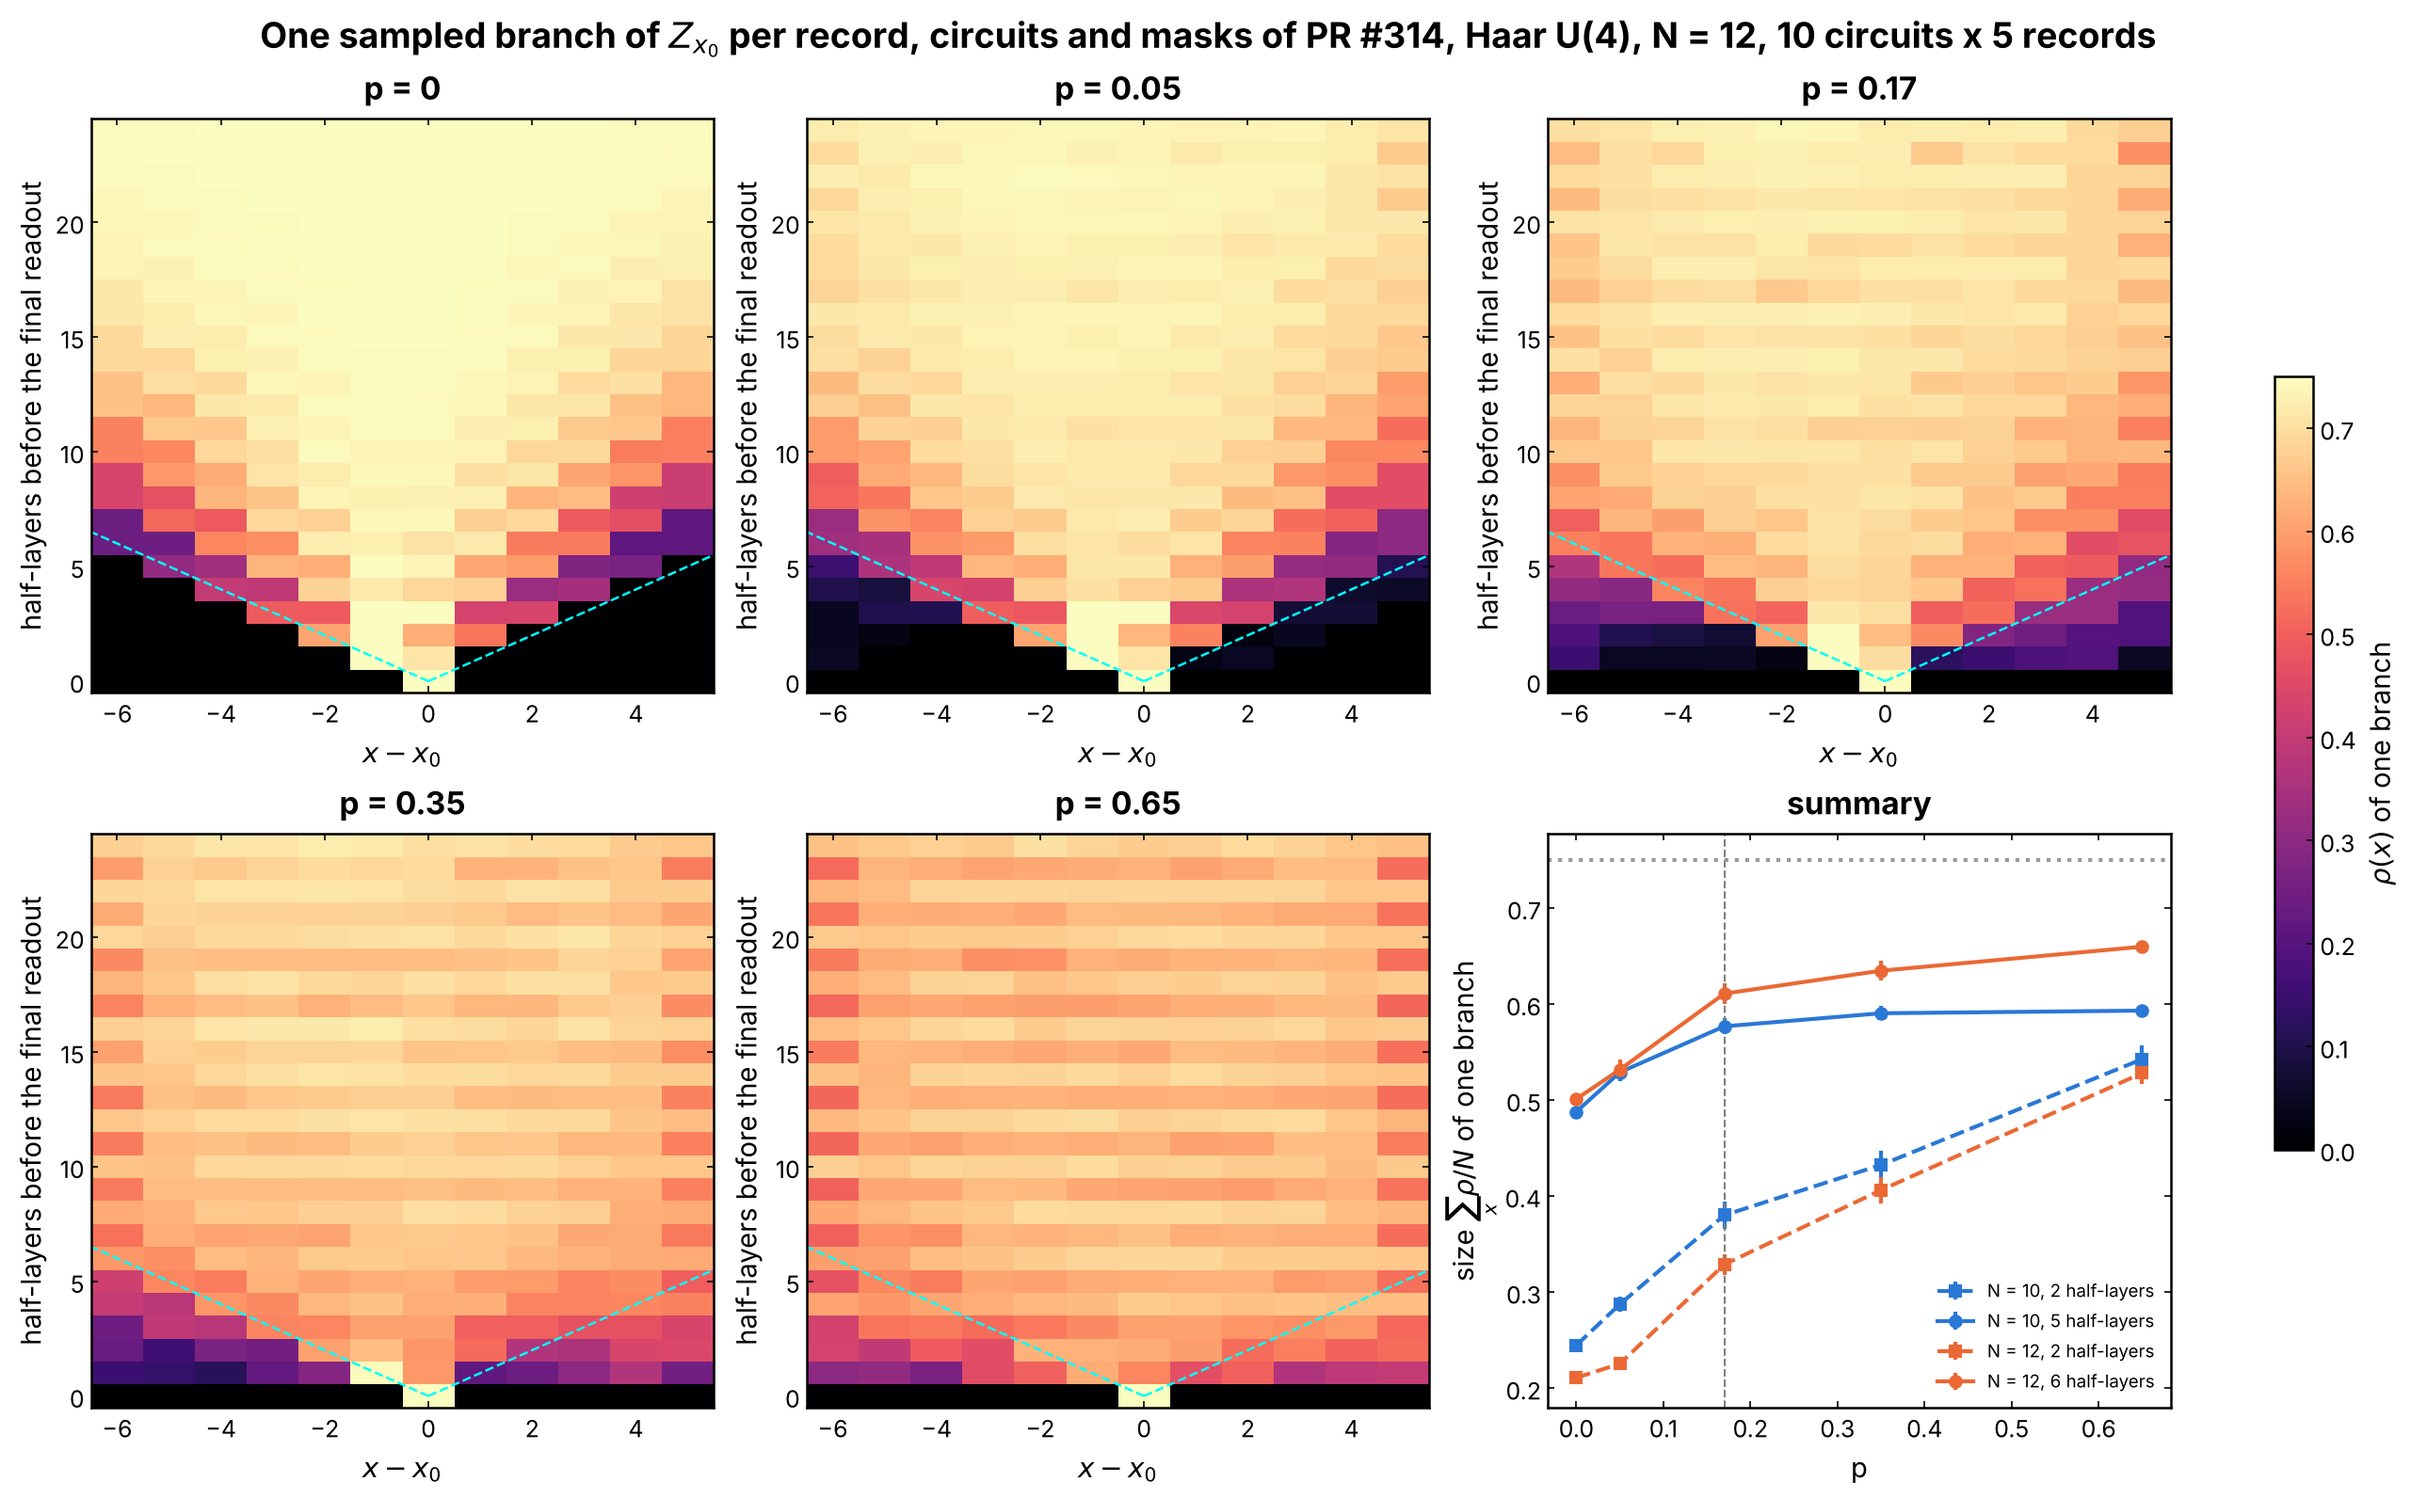
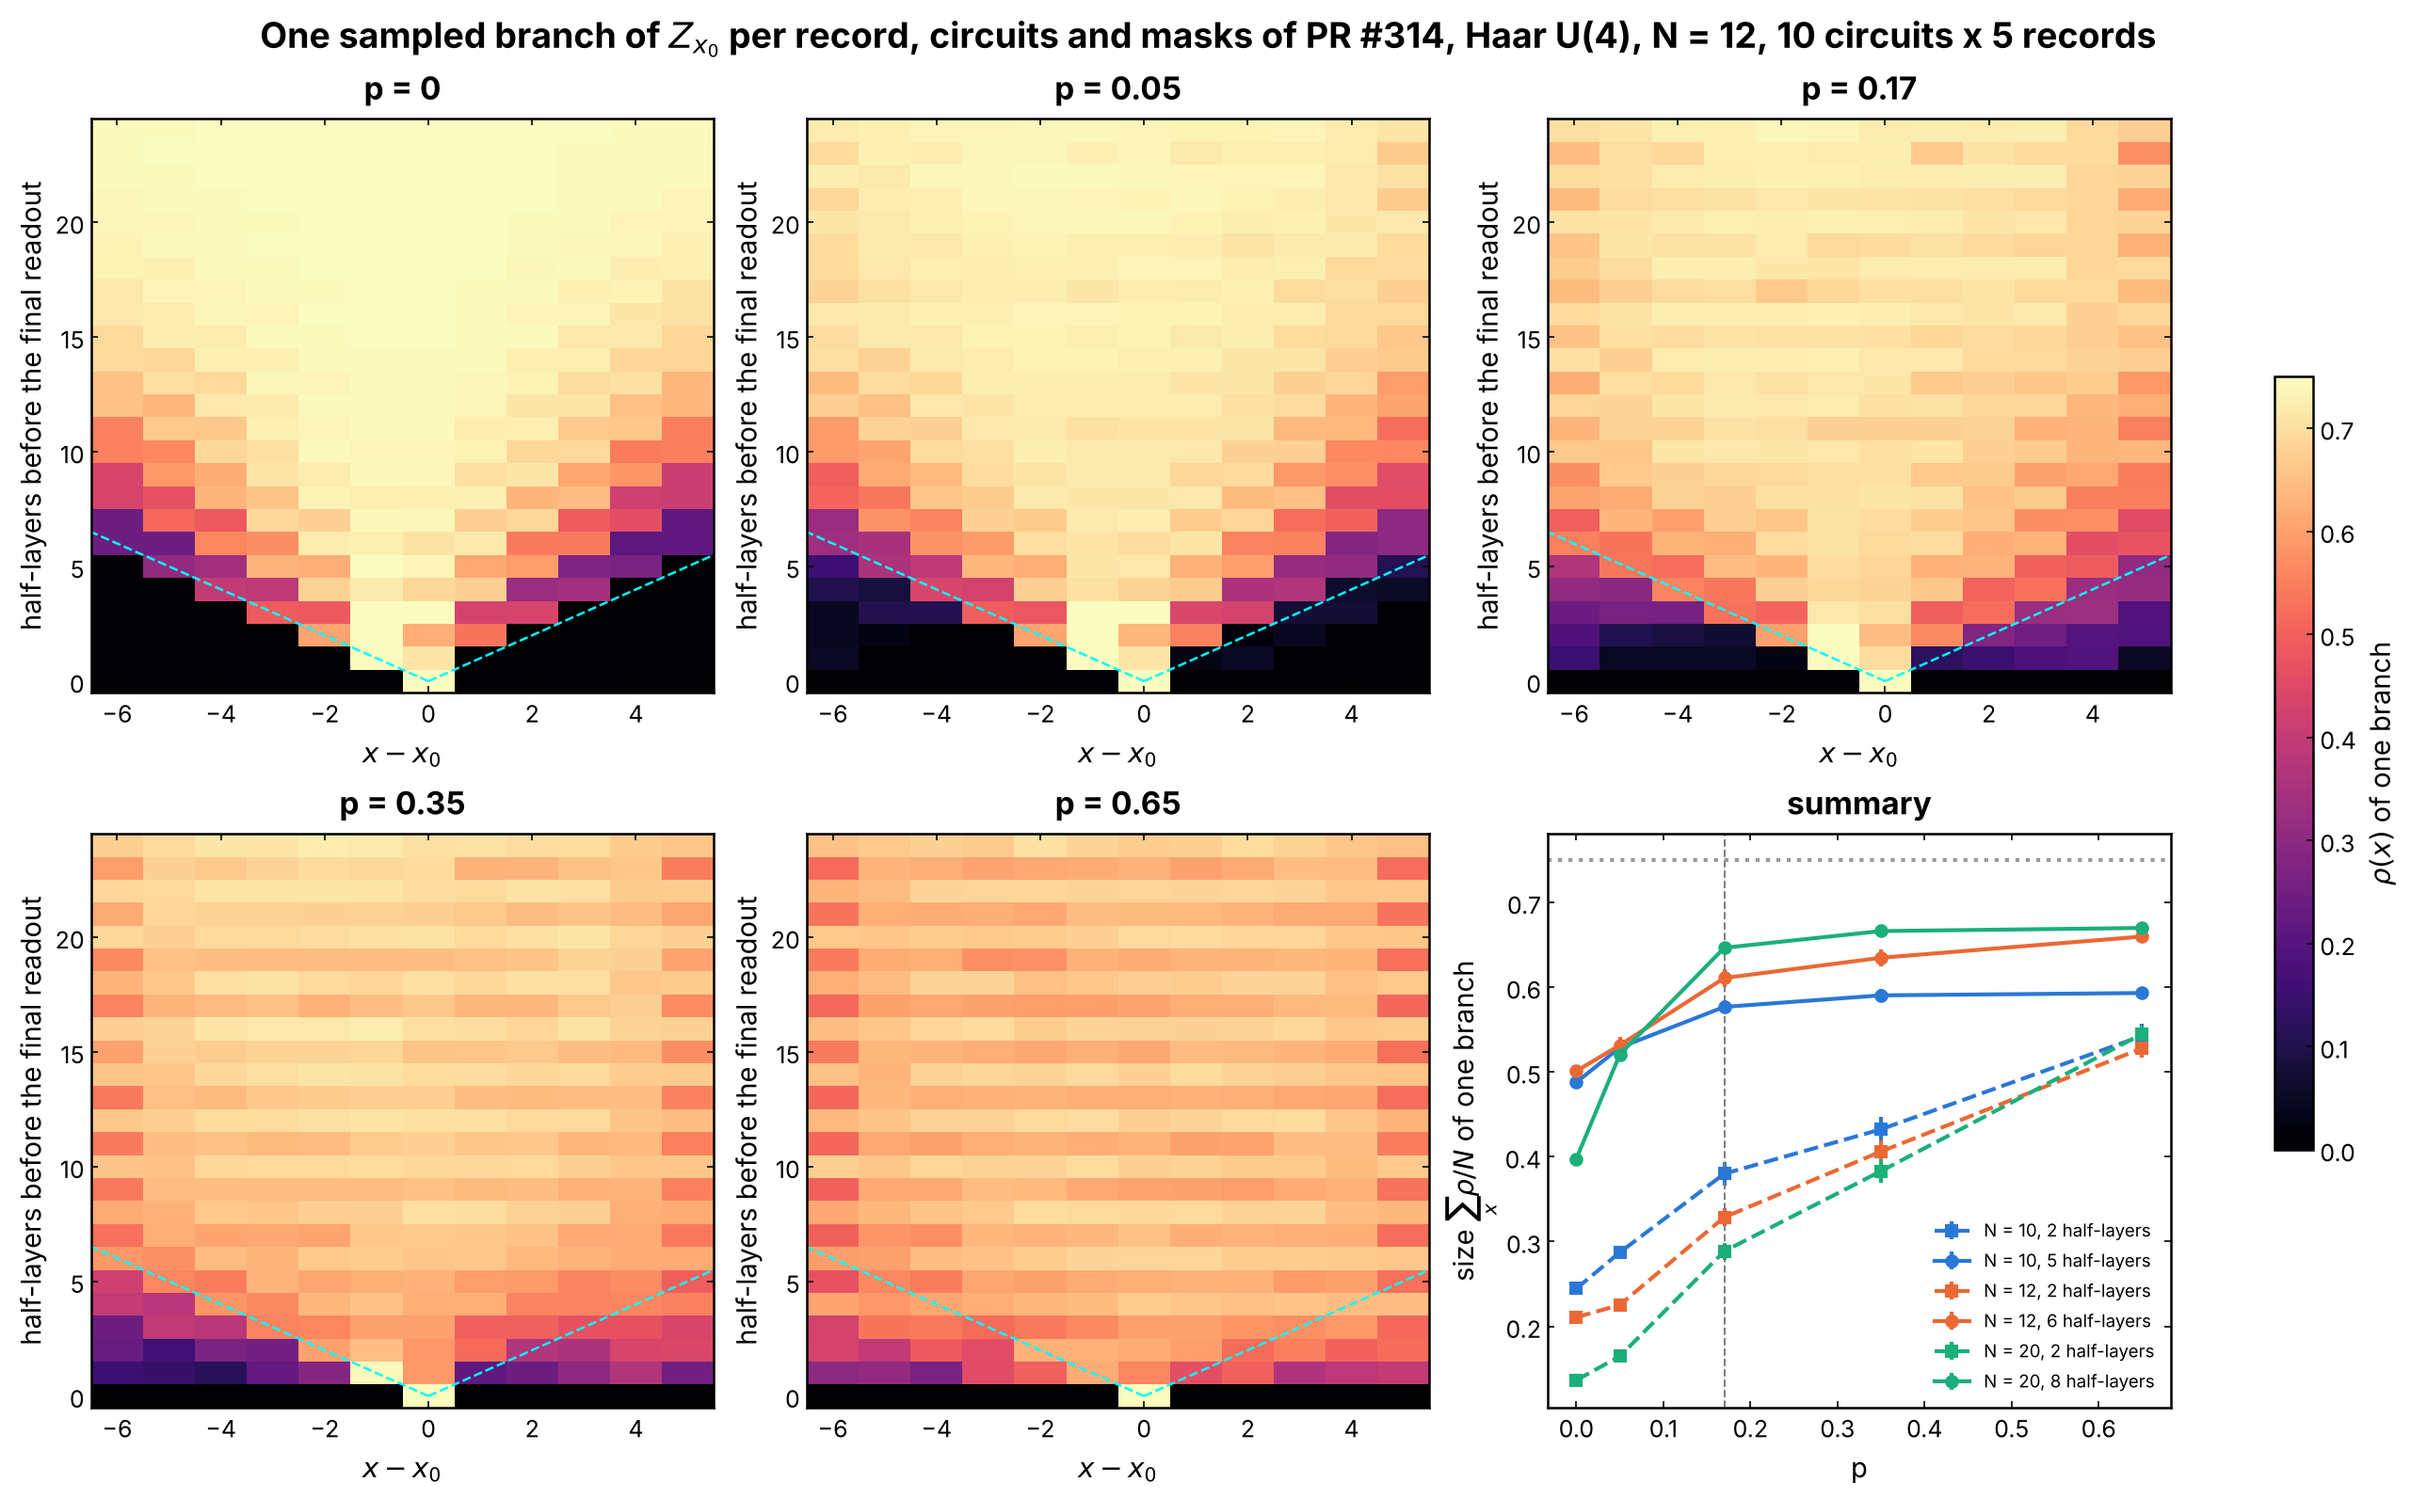
Operator cones: one branch at N = 20 as an MPS of bond 256 (#315)
The branch subcommand caches each finished circuit and takes --seed-from,
so the long MPS runs resume and split over (p, seed). Figure 10 shows the
N = 20 cone with the rows where the discarded weight exceeds 1 % hatched;
the summary panel stays inside the reliable rows.

Claude-Session: https://claude.ai/code/session_0185MugvBqh3aNVuZNob9j2W

diff --git a/experiments/operator_cones/operator_cones.py b/experiments/operator_cones/operator_cones.py
@@ -271,29 +271,46 @@ def run_branch(args: argparse.Namespace) -> None:
     records per circuit. Cheap at ``N = 10`` for every ``p``. With
     ``--chi`` the operator is a truncated MPS (:func:`single_branch_mps`),
     for ``N`` beyond the dense ``4**N`` vector; the mean discarded weight is
-    saved with the map.
+    saved with the map, and each finished circuit is cached so that a rerun
+    resumes.
     """
     from QELM.evaluation.effect_rank import draw_circuit
 
     N, T = args.N, args.N
     runs = {}
+    # MPS runs are long: each circuit is saved as it ends, and a rerun with
+    # the same arguments resumes from there (and merges runs split over p).
+    parts = Path(args.out) / f"branch_N{N}_chi{args.chi}_parts"
+    if args.chi:
+        parts.mkdir(parents=True, exist_ok=True)
     for p in sorted(set(args.p)):
         t0 = time.time()
         dens: list[np.ndarray] = []
         lost: list[np.ndarray] = []
         bonds: list[np.ndarray] = []
-        for seed in range(args.seeds):
+        for seed in range(args.seed_from, args.seeds):
+            part = parts / f"p{p:g}_seed{seed}_b{args.branches}.npz"
+            if part.exists():
+                with np.load(part) as z:
+                    dens += list(z["density"])
+                    lost += list(z["discarded"]) if args.chi else []
+                    bonds += list(z["max_bond"]) if args.chi else []
+                continue
             u = np.random.default_rng((seed, N, 1000)).random((T, N))
             circuit = draw_circuit("haar", N, T, np.random.default_rng((seed, N, 0)))
             rng = np.random.default_rng((seed, N, 2000))
+            d, lo, bo = [], [], []
             for _ in range(args.branches):
                 if args.chi:
                     r = single_branch_mps(circuit, u < p, N // 2, rng, args.chi)
-                    dens.append(r.density)
-                    lost.append(r.discarded)
-                    bonds.append(r.max_bond)
+                    d.append(r.density)
+                    lo.append(r.discarded)
+                    bo.append(r.max_bond)
                 else:
-                    dens.append(single_branch(circuit, u < p, N // 2, rng))
+                    d.append(single_branch(circuit, u < p, N // 2, rng))
+            if args.chi:
+                np.savez(part, density=d, discarded=lo, max_bond=bo)
+            dens, lost, bonds = dens + d, lost + lo, bonds + bo
         D = np.asarray(dens)
         runs[f"{p:g}"] = {
             "p": p,
@@ -382,6 +399,9 @@ def main() -> None:
     b.add_argument("--seeds", type=int, default=10)
     b.add_argument("--branches", type=int, default=5, help="records per circuit")
     b.add_argument("--chi", type=int, default=0, help="MPS bond (0: dense vector)")
+    b.add_argument(
+        "--seed-from", dest="seed_from", type=int, default=0, help="first seed"
+    )
     b.add_argument("--p", type=_floats, default=_floats(grid), help=p_help)
     b.set_defaults(func=run_branch)
 

diff --git a/experiments/operator_cones/plot_operator_cones.py b/experiments/operator_cones/plot_operator_cones.py
@@ -438,7 +438,8 @@ def plot_branch(main: dict, others: list[dict], out: Path) -> None:
     for k, data in enumerate(sorted([main] + others, key=lambda d: d["N"])):
         runs = [r for r in _runs(data) if any(np.isclose(r["p"], q) for q in P_MAIN)]
         p = [r["p"] for r in runs]
-        for s, ls, mk in ((2, "--", "s"), (data["N"] // 2, "-", "o")):
+        # Second time: N / 2 half-layers, at most 8 (MPS rows are exact up to 8).
+        for s, ls, mk in ((2, "--", "s"), (min(data["N"] // 2, 8), "-", "o")):
             ax.errorbar(
                 p,
                 [r["size"][s] / data["N"] for r in runs],

diff --git a/experiments/operator_cones/README.md b/experiments/operator_cones/README.md
@@ -23,7 +23,7 @@ at N <= 10 they cross over smoothly too.
 | Script(s) | `experiments/operator_cones/operator_cones.py` (subcommands `chain`, `traj`, `krylov`, `single`, `branch`, `parker`), launcher `operator_cones.sh`, figures `plot_operator_cones.py` |
 | Module | `QELM.evaluation.operator_cones` |
 | Physical model | open brickwork chain of Haar U(4) gates, one half-layer per time step (`v_LR = 1` site per step), each qubit measured in Z with probability `p` after every half-layer, as in Zabalo et al., PRB 101, 060301 (2020) |
-| System sizes `N` | 41 (A1), 8 and 10 (A2), 6 and 8 (B), 5 to 7 (C), 10 and 12 (C, one branch), 8 and 10 (Parker reference) |
+| System sizes `N` | 41 (A1), 8 and 10 (A2), 6 and 8 (B), 5 to 7 (C), 10, 12 and 20 (C, one branch; 20 as an MPS), 8 and 10 (Parker reference) |
 | Control parameter | `p` in {0, 0.05, 0.17, 0.35, 0.65} for the five-panel figures; grid {0, 0.025, 0.05, 0.1, 0.13, 0.17, 0.21, 0.25, 0.35, 0.5, 0.65} for the summaries |
 | Initial operator | `Z` on the middle site `x0 = N // 2` (A1, B); Pauli images of a reference qubit `R` maximally entangled with `x0` (A2) |
 | ML task | none: a diagnostic of the reservoir dynamics |
@@ -111,7 +111,13 @@ of A2) and renormalized. The result is the single operator of one record,
 a vector of `4^N` numbers, whose Pauli-weight map `(x, t)` is averaged over
 10 circuits x 5 records (same circuits, masks and seeds as C). This gives
 the cone at N = 10 (11 values of `p`) and N = 12 (the five `p`), but not
-the dimension curve.
+the dimension curve. At N = 20 the `4^N` vector (8 TB) is replaced by a
+real MPS of the Pauli coefficients (`single_branch_mps`, `--chi 256`):
+each gate is applied to two sites and truncated to the 256 largest Schmidt
+values, then renormalized, and the discarded weight is accumulated. At
+full bond it equals `single_branch` to rounding (tested); against the exact
+N = 12 branch at bond 256 it is exact up to 9 half-layers at `p = 0`.
+Each finished circuit is cached, so a run resumes after an interruption.
 
 **Parker reference** (`liouvillian_lanczos`, `free_fermion_lanczos`).
 Lanczos coefficients of `X_{N/2}` under the Ising chain `H = - sum Z Z -
@@ -209,6 +215,20 @@ time as in the docstring of `operator_cones.py`.
   agree. A single branch is the operator of one record and does not see
   how many records there are: the branching that makes the rank of #314
   rise is visible only in the span (Figures 6 and 7).
+- **C, one branch at N = 20 (MPS, bond 256).** Up to 8 half-layers before
+  the readout the truncation is negligible at every `p` (discarded weight
+  below 0.006), and the picture of N = 10 and 12 holds (Figure 10). At `p =
+  0` the front moves at about 0.6 site per half-layer (size 2.7 and 8.0 at 2
+  and 8 half-layers), and with measurements the edges fill (size 2.7, 3.3,
+  5.8, 7.7, 10.9 at 2 half-layers for the five `p`). Further back, the bond
+  256 is far too small at `p <= 0.17` (the operator of a volume-law branch
+  needs a bond up to `4^10`): the discarded weight exceeds 1 % from 9
+  half-layers on, and the hatched rows of Figure 10 are not reliable (at `p
+  = 0` the size drops to 0.46 N instead of 3/4 N). At `p = 0.35` the
+  truncation stays small up to 15 half-layers (6.8 % discarded at the
+  input), and at `p = 0.65` it is negligible over the whole circuit (bond
+  256 is never limiting): in the area-law regime, the single branch of one
+  record has bounded operator entanglement.
 - **Parker et al. reproduced.** For the chaotic Ising chain at N = 10,
   `b_n` grows linearly, slope `alpha = 0.39` for `n = 6..25`, up to a
   finite-size plateau `b ~ 15` at `n ~ 33`; the integrable chain saturates
@@ -321,11 +341,20 @@ operator of one record (color, 0 to 3/4) against `x - x0` and the
 half-layers before the final readout (0 at the readout, `2T = 20` at the
 input), mean over 10 circuits x 5 records; cyan dashed: light cone `|x -
 x0| = t`. Summary panel: size `sum_x rho / N` against `p`, two half-layers
-(dashed) and `N / 2` half-layers (solid) before the readout, for N = 10 and
-12; dotted: 3/4; vertical dashed line `p_c = 0.17`. `plot_operator_cones.py`,
+(dashed) and `min(N / 2, 8)` half-layers (solid) before the readout, for N
+= 10, 12 and 20; dotted: 3/4; vertical dashed line `p_c = 0.17`. `plot_operator_cones.py`,
 issue #315.
 
 ![One branch, N = 12](figures/single_operator_branch_N12.png)
 
 **Figure 9. Same as Figure 8 at N = 12** (`2T = 24`, 10 circuits x 5
 records, five values of `p`). `plot_operator_cones.py`, issue #315.
+
+![One branch, N = 20](figures/single_operator_branch_N20.png)
+
+**Figure 10. Same as Figure 8 at N = 20, operator as an MPS of bond 256**
+(`2T = 40`, 10 circuits x 5 records). Hatched rows, above the white line:
+mean discarded weight above 0.01, not reliable (from 9 half-layers at `p <=
+0.17`, 16 at `p = 0.35`, never at `p = 0.65`). The summary panel uses 2 and
+`min(N / 2, 8)` half-layers, inside the reliable rows. `plot_operator_cones.py`,
+issue #315.
